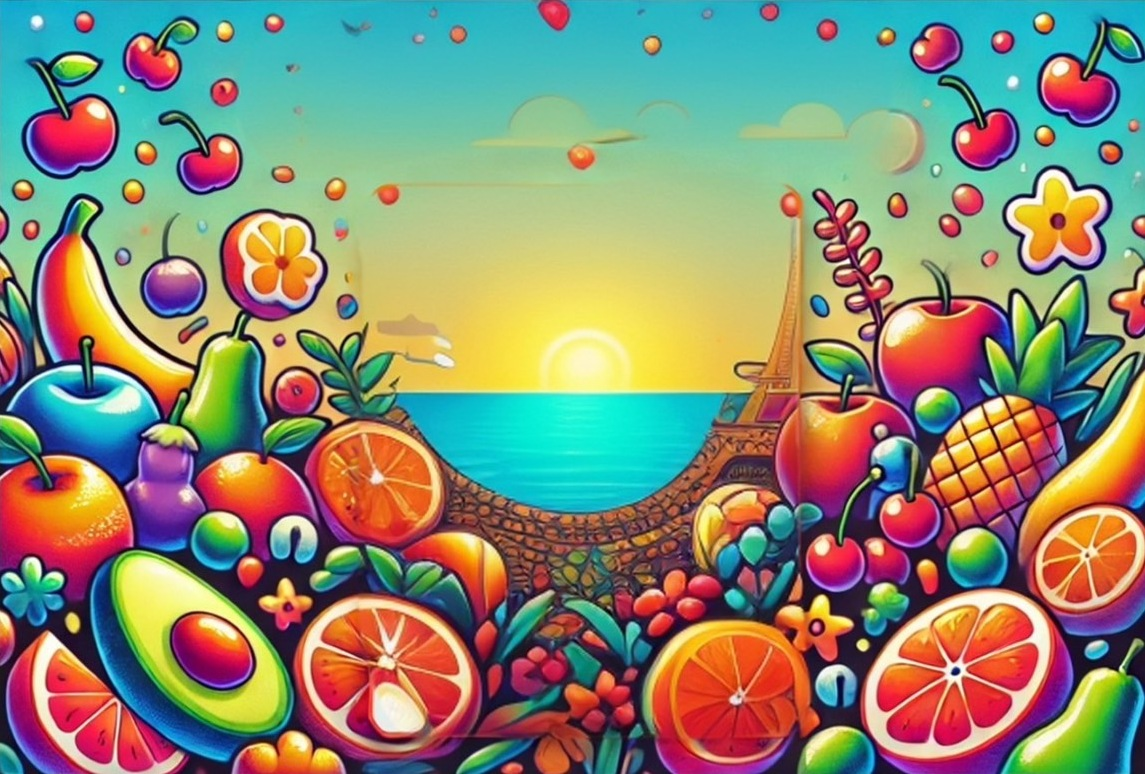
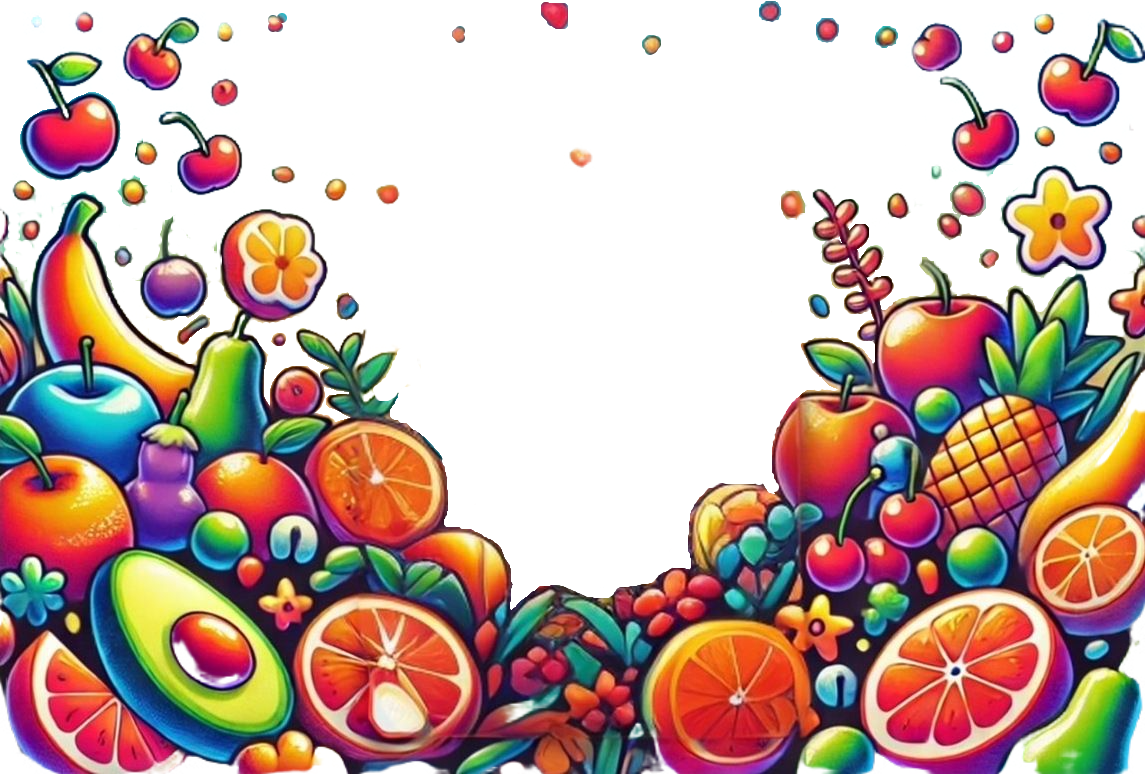
feat: update background image and CSS styles

diff --git a/resources/css/index.css b/resources/css/index.css
@@ -1,18 +1,36 @@
 body {
     font-family: Arial, sans-serif;
-    background-image: url("../src/assets/homepage-background.jpg");
+    background: linear-gradient(to bottom, #00BFFF, #00FA9A);
     background-repeat: no-repeat;
     background-attachment: fixed;
     background-position: center;
     background-size: cover;
     margin: 0;
     height: 100vh;
+    display: flex;
+    flex-direction: column;
+    position: relative;
+}
+
+body::after {
+    content: "";
+    position: absolute;
+    top: 0;
+    left: 0;
+    width: 100%;
+    height: 100%;
+    background: url("../src/assets/homepage-background.jpg") no-repeat center/cover;
+    z-index: 0;
+    opacity: 1;
+    pointer-events: none;
 }
 
 .wrapper {
     display: flex;
     flex-direction: column;
     min-height: 100vh;
+    position: relative;
+    z-index: 1;
 }
 
 .home-page {

diff --git a/resources/css/auth.css b/resources/css/auth.css
@@ -5,7 +5,7 @@
     padding: 35px;
     background-color: #fff;
     border-radius: 8px;
-    box-shadow: 0 2px 10px rgba(0, 0, 0, 0.1);
+    box-shadow: 0 12px 15px rgba(0, 0, 0, 0.7);
     max-width: 450px;
     width: 100%;
     border: 5px solid #ff7f50;
